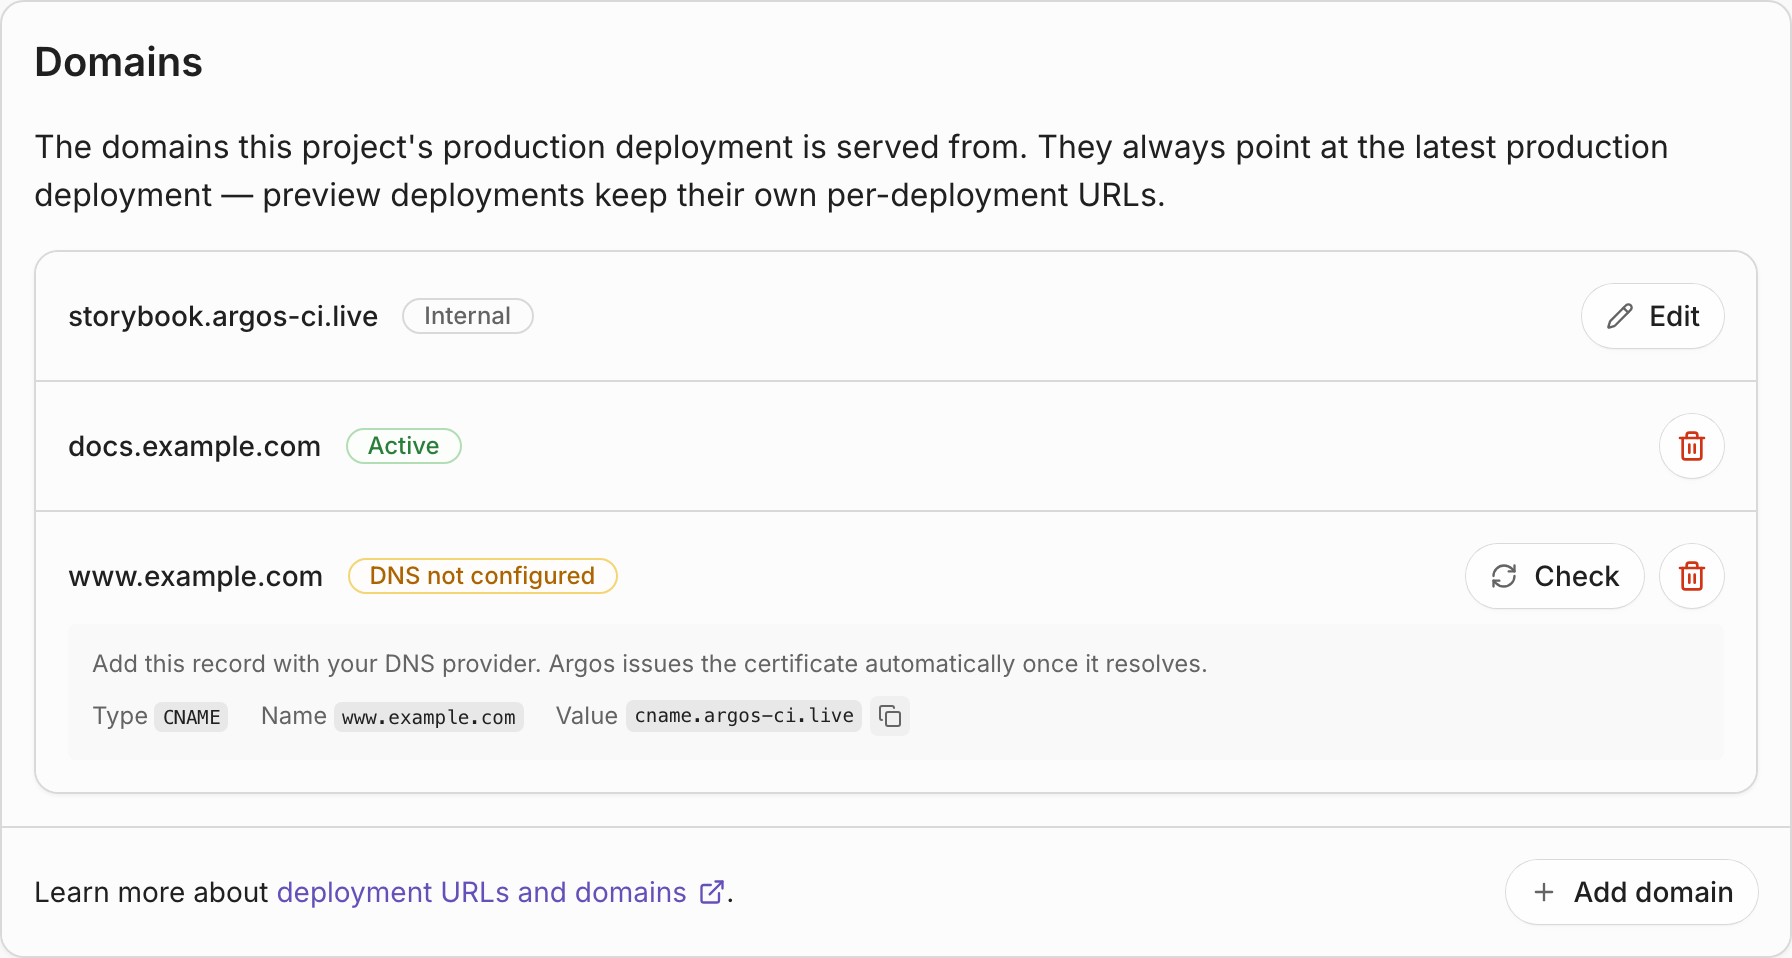
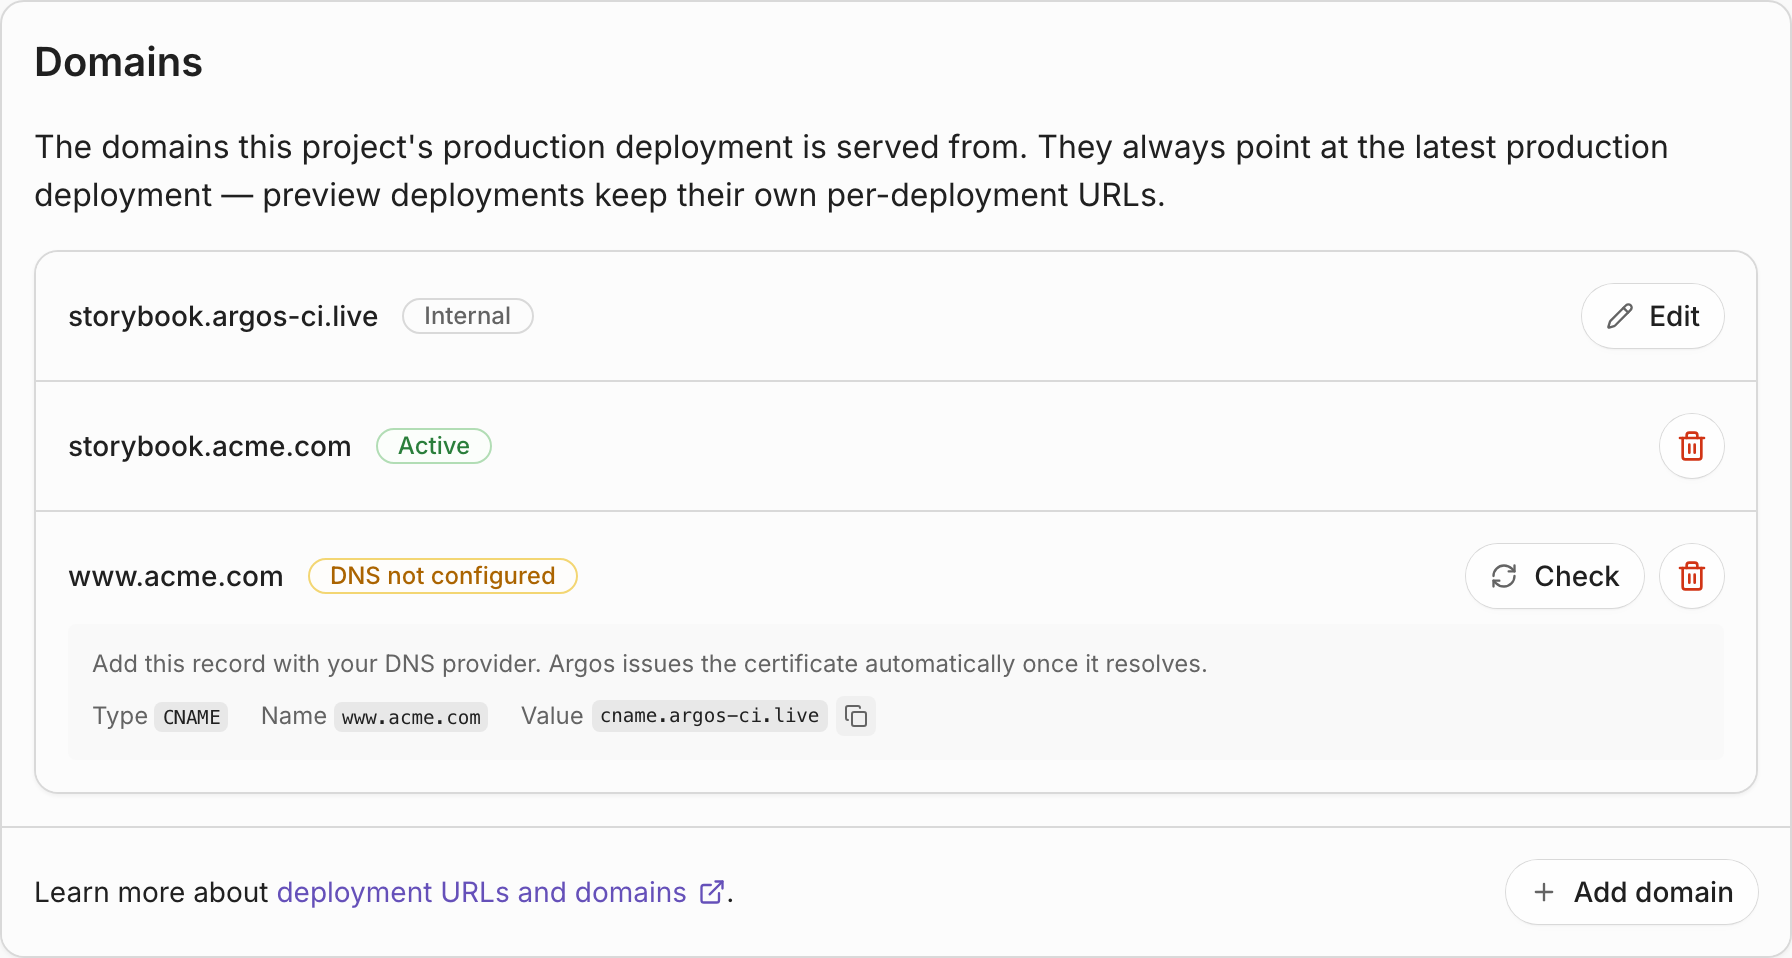
docs(deployments): use storybook.acme.com as the domain example
docs.example.com read as if the feature were about documentation sites.
storybook.acme.com matches the storybook/acme naming the rest of the
page already uses. Both screenshots are retaken with the same example.

Changed region(s): [[0.0938, 0.5752, 0.3438, 0.6357], [0.2188, 0.7265, 0.5, 0.7568], [0.0312, 0.4541, 0.2812, 0.4843]]

diff --git a/docs/learn/deployments/urls-and-domains.md b/docs/learn/deployments/urls-and-domains.md
@@ -66,7 +66,7 @@ Changing the production domain takes effect immediately. Any existing links that
 
 ### Custom domain
 
-Production deployments can also be served from a domain you own, such as `docs.example.com`. A custom domain behaves like the production domain—it always points at the latest production deployment—but it carries your own name instead of `argos-ci.live`.
+Production deployments can also be served from a domain you own, such as `storybook.acme.com`. A custom domain behaves like the production domain—it always points at the latest production deployment—but it carries your own name instead of `argos-ci.live`.
 
 Once a custom domain is live, Argos uses it in the links it publishes back to GitHub, so the commit status and the pull request comment point at your domain rather than at the generated URL.
 
@@ -84,7 +84,7 @@ Custom domains serve **production deployments only**. Preview deployments keep t
 {% step %}
 ## Add the domain in Argos
 
-Go to **Settings → Deployments → Domains**, click **Add domain**, and enter the fully qualified domain you want to use—for example `docs.example.com`. Enter the domain on its own, not a URL.
+Go to **Settings → Deployments → Domains**, click **Add domain**, and enter the fully qualified domain you want to use—for example `storybook.acme.com`. Enter the domain on its own, not a URL.
 {% endstep %}
 
 {% step %}
@@ -92,11 +92,11 @@ Go to **Settings → Deployments → Domains**, click **Add domain**, and enter 
 
 Argos shows the record to create as soon as the domain is added. Add it with your DNS provider:
 
-| Field | Value                                |
-| ----- | ------------------------------------ |
-| Type  | `CNAME`                              |
-| Name  | Your domain, e.g. `docs.example.com` |
-| Value | `cname.argos-ci.live`                |
+| Field | Value                                   |
+| ----- | --------------------------------------- |
+| Type  | `CNAME`                                 |
+| Name  | Your domain, e.g. `storybook.acme.com`  |
+| Value | `cname.argos-ci.live`                   |
 
 Copy the value from the interface rather than typing it—Argos displays it with a copy button next to the domain.
 {% endstep %}
